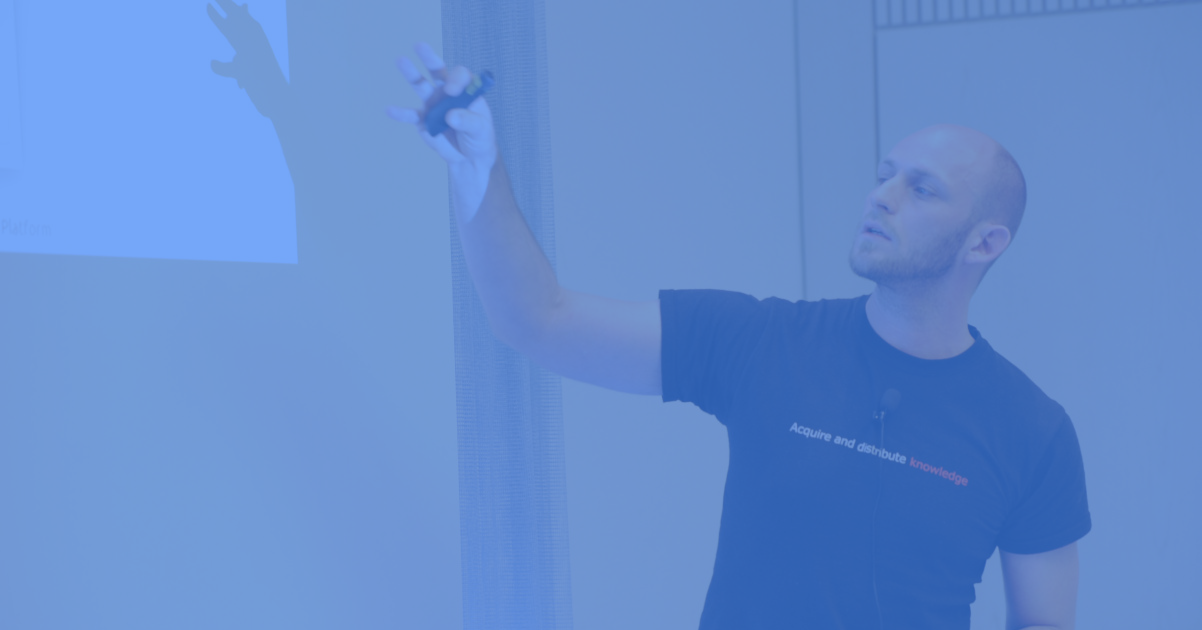
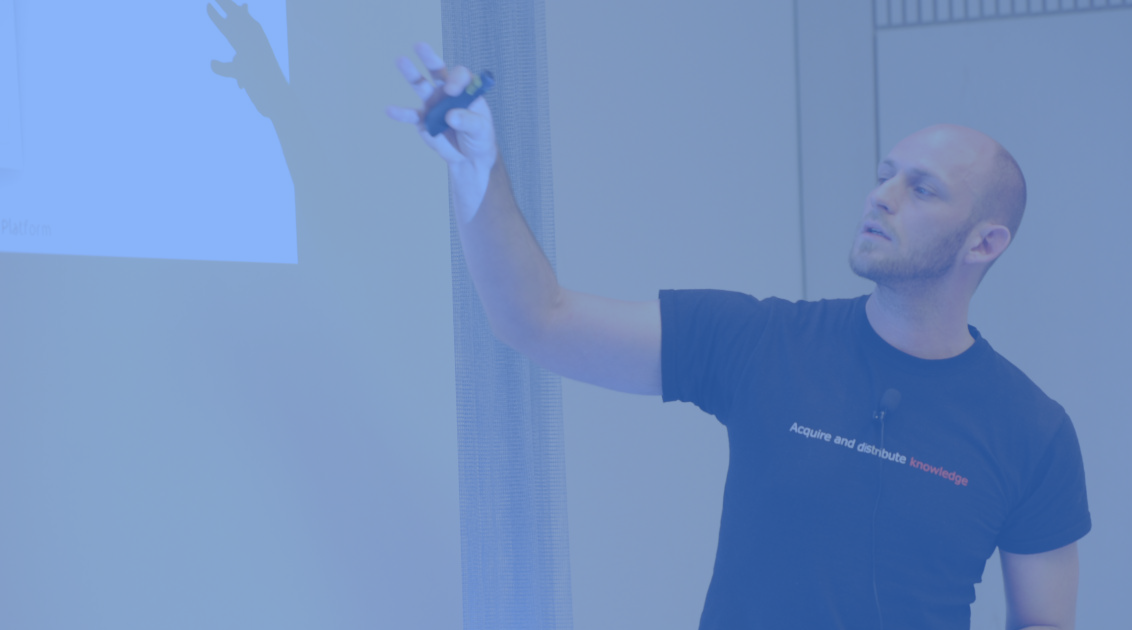
Organize Imports

diff --git a/src/pages/index.tsx b/src/pages/index.tsx
@@ -3,8 +3,7 @@ import React from 'react'
 import { SEO } from '../components/SEO'
 import { HomepageQuery } from '../types/graphql'
 import { CategoryCard } from '../components/cards/CategoryCard'
-import { GatsbyImage } from 'gatsby-plugin-image'
-import bgImage from '../assets/img/me-presenting-bg.png'
+import bgImage from '../assets/img/me-presenting-bg.webp'
 import { MobileCategoryCard } from '../components/cards/MobileCategoryCard'
 
 export const query = graphql`
